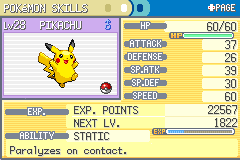
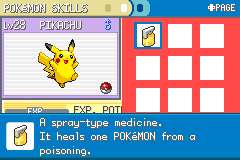
fix move description

diff --git a/src/pokemon_summary_screen.c b/src/pokemon_summary_screen.c
@@ -35,7 +35,7 @@
 #include "pokemon_storage_system.h"
 #include "constants/sound.h"
 
-#include "ui/summary_screen/summary_moveChanger.h"
+#include "ui/summary_screen/summary_MoveHandler.h"
 #include "ui/summary_screen/summary_screenData.h"
 #include "ui/summary_screen/summary_PageManager.h"
 #include "ui/summary_screen/summary_CursorObjs.h"
@@ -2384,6 +2384,7 @@ static void PokeSum_PrintRightPaneText(void)
         break;
     case PSS_PAGE_MOVES:
     case PSS_PAGE_MOVES_INFO:
+        // Page_DrawBoxes();
         Page_PrintMoveTexts(); // PrintMovesPage();
         break;
     }
@@ -2499,7 +2500,7 @@ static void PrintSkillsPage(void)
 // {
 //     Page_PrintMoveTexts(i);
     // u16 move = sMonSummaryScreen->moveIds[i];
-    // move = MoveChanger_GetMove(i);
+    // move = MoveHandler_GetMove(i);
 
     // // Title
     // AddTextPrinterParameterized3(sMonSummaryScreen->windowIds[POKESUM_WIN_RIGHT_PANE], FONT_NORMAL, 
@@ -2529,7 +2530,7 @@ static void PokeSum_PrintBottomPaneText(void)
         PokeSum_PrintExpPoints_NextLv();
         break;
     case PSS_PAGE_MOVES_INFO:
-        // PokeSum_PrintSelectedMoveStats();
+        Page_DrawBoxes();
         Page_PrintMoveDescription();
         break;
     case PSS_PAGE_MOVES:
@@ -2803,7 +2804,7 @@ static void PokeSum_PrintExpPoints_NextLv(void)
     //     if (sMonSummaryScreen->mode != PSS_MODE_SELECT_MOVE && sMoveSelectionCursorPos == 4)
     //         return;
 
-    //     moveData = MoveChanger_GetMoveDataAtCursor();
+    //     moveData = MoveHandler_GetMoveDataAtCursor();
     //     // Power
     //     AddTextPrinterParameterized3(sMonSummaryScreen->windowIds[POKESUM_WIN_MOVES_DESCRIPTION], FONT_NORMAL,
     //                                  55, 1,
@@ -2819,7 +2820,7 @@ static void PokeSum_PrintExpPoints_NextLv(void)
     //                                  7, 17,
     //                                  0, 0,
     //                                  sLevelNickTextColors[0], TEXT_SKIP_DRAW,
-    //                                  MoveChanger_GetDescription());
+    //                                  MoveHandler_GetDescription());
     //                                 //  moveData->GetDescription(moveData));
     // }
 // }
@@ -2868,7 +2869,7 @@ static void PokeSum_DrawMoveTypeIcons(void)
 
     // for (i = 0; i < 4; i++)
     // {
-    //     moveData = MoveChanger_GetMoveData(i);
+    //     moveData = MoveHandler_GetMoveData(i);
     //     if (moveData->id == MOVE_NONE)
     //         continue;
         
@@ -3178,7 +3179,7 @@ static void PokeSum_AddWindows(u8 curPageIndex)
         case PSS_PAGE_MOVES_INFO:
             sMonSummaryScreen->windowIds[i + 3] = AddWindow(&sWindowTemplates_Moves[i]);
             sPages[PSS_PAGE_MOVES_INFO]->windowIds[i] = sMonSummaryScreen->windowIds[i + 3];
-            DebugPrintf("screen add window %d", sMonSummaryScreen->windowIds[i + 3]);
+            // DebugPrintf("screen add window %d", sMonSummaryScreen->windowIds[i + 3]);
             // Page_SetWindow(i, sMonSummaryScreen->windowIds[i + 3]);
             // 3: POKESUM_WIN_MOVES_TITLE
             // 4: POKESUM_WIN_MOVES_DESCRIPTION
@@ -3527,19 +3528,6 @@ static void Task_HandleInput_SelectMove(u8 taskId)
 
                 sMonSummaryScreen->selectMoveInputHandlerState = SELECT_STATE_REDRAW;
 
-                // if (sMonSummaryScreen->isSwappingMoves == TRUE)
-                // {
-                //     if (sMoveSelectionCursorPos == 3)
-                //     {
-                //         sMoveSelectionCursorPos = 0;
-                //         Page_SetCursor(0);
-                //         sMonSummaryScreen->selectMoveInputHandlerState = SELECT_STATE_REDRAW;
-                //         PlaySE(SE_SELECT);
-                //         return;
-                //     }
-                //     iMax--;
-                // }
-
                 for (i = sMoveSelectionCursorPos; i < iMax; i++)
                 {
                     if (sMonSummaryScreen->moveIds[i + 1] != 0)
@@ -3590,7 +3578,7 @@ static void Task_HandleInput_SelectMove(u8 taskId)
             //     sMoveSelectionCursorPos = 0;
             //     Page_SetCursor(0);
             //     Page_SetScrolling(FALSE);
-            //     // MoveChanger_DeselectMove();
+            //     // MoveHandler_DeselectMove();
             //     sMoveSwapCursorPos = 0;
             //     sMonSummaryScreen->isSwappingMoves = FALSE;
             //     Page_SetSwapping(FALSE);
@@ -3611,7 +3599,6 @@ static void Task_HandleInput_SelectMove(u8 taskId)
                     sMoveSwapCursorPos = sMoveSelectionCursorPos;
                     sMonSummaryScreen->isSwappingMoves = TRUE;
                     Page_SetSwapping(TRUE);
-                    // MoveChanger_SelectMove();
                 }
                 return;
             }
@@ -3685,13 +3672,13 @@ static void Task_HandleInput_SelectMove(u8 taskId)
         CopyWindowToVram(sMonSummaryScreen->windowIds[POKESUM_WIN_MOVES_MINI], 2);
         CopyBgTilemapBufferToVram(0);
         CopyBgTilemapBufferToVram(3);
-        // CopyWindowToVram(2, COPYWIN_MAP); // boxes
-        Page_DrawBoxes();
+        CopyWindowToVram(2, COPYWIN_MAP); // boxes
+        // Page_DrawBoxes(); // already in PrintBottomPaneText
         sMonSummaryScreen->selectMoveInputHandlerState = SELECT_STATE_RENDER + 1;
         break;
 
     case SELECT_STATE_REDRAW + 2:
-        CopyWindowToVram(2, COPYWIN_MAP); // boxes
+        // CopyWindowToVram(2, COPYWIN_MAP); // boxes
         sMonSummaryScreen->selectMoveInputHandlerState = SELECT_STATE_INPUT;
         break;
 

diff --git a/src/ui/summary_screen/summary_Page_MoveInfos.c b/src/ui/summary_screen/summary_Page_MoveInfos.c
@@ -1,6 +1,6 @@
 #include "main.h"
 #include "ui/summary_screen/summary_Page.h"
-#include "ui/summary_screen/summary_MoveChanger.h"
+#include "ui/summary_screen/summary_MoveHandler.h"
 #include "ui/summary_screen/drawMoveBox.h"
 #include "constants/moves.h" // MOVE_NONE
 #include "list_menu.h" // BlitMenuInfoIcon
@@ -118,6 +118,7 @@ void Page_ScrollUp(u8 i)
 
 void Page_SetScrolling(bool8 b)
 {
+    DebugPrintf("set scrolling %d", b);
     isScrolling = b;
     sScrollIndex = 0;
     UpdateBoxes();
@@ -168,7 +169,7 @@ bool32 Page_SwapMoves(struct Pokemon * mon)
     // SetMonData(mon, MON_DATA_MOVE1 + 0, (u8 *)&move1);
     
     DebugPrintf("try swap moves -> %d %d", moveIndex, slotIndex);
-    b = MoveChanger_SwapMoves(mon, moveIndex, slotIndex);
+    b = MoveHandler_SwapMoves(mon, moveIndex, slotIndex);
     if (b)
     {
         sCursorIndex = MIN(index, sCursorIndex);
@@ -186,12 +187,12 @@ void Page_PrintMoveDescription()
     if (sCursorIndex >= 5)
         return;
 
-    moveData = MoveChanger_GetMoveData(sCursorIndex + sScrollIndex);
+    moveData = MoveHandler_GetMoveData(sCursorIndex + sScrollIndex);
 
     if (moveData == NULL || moveData->moveId == 0)
         return;
 
-    // DebugPrintf("print description %d", moveData->id);
+    // DebugPrintf("print description %d @ cursor: %d + %d", moveData->moveId, sCursorIndex, sScrollIndex);
 
     // Power
     AddTextPrinterParameterized3(WindowId, FONT_NORMAL, 55, 1,
@@ -204,7 +205,7 @@ void Page_PrintMoveDescription()
     // Description
     AddTextPrinterParameterized4(WindowId, FONT_SMALL, 7, 17, 0, 0,
                                     sLevelNickTextColors[0], TEXT_SKIP_DRAW,
-                                    gMoveDescriptionPointers[moveData->moveId]);
+                                    gMoveDescriptionPointers[moveData->moveId - 1]);
 }
 
 
@@ -225,24 +226,16 @@ SummaryPage *Page_MoveInfos_Init(void)
 
 void Page_SetPokemon(struct Pokemon * pokemon) 
 {
-    maxScroll = MoveChanger_SetPokemon(pokemon) - 4;
-    DebugPrintf("set pokemon -> moves %d", maxScroll);
+    maxScroll = MoveHandler_SetPokemon(pokemon) - 4;
+    // DebugPrintf("set pokemon -> moves %d", maxScroll);
 }
 
 void Page_DrawBoxes() {
-    u32 i;
+    // u32 i;
+    // DebugPrintf("draw boxes");
     for (i=0; i< 5; i++)
     {
         Page_DrawBox(i, 0);
-    }
-}
-
-void Page_DrawTweens(u8 direction)
-{
-    u32 i;
-    for (i=0; i< 5; i++)
-    {
-        Page_DrawBox(i, direction);
     }
 }
 
@@ -251,7 +244,7 @@ static bool8 Page_DrawBox(u32 i, u32 direction)
     if (boxes[i].dirty == TRUE)
     {
         DrawBox(i, boxes[i].state, direction);
-        DebugPrintf("print box -> state %d", boxes[i].state);
+        // DebugPrintf("print box -> state %d", boxes[i].state);
         boxes[i].dirty = FALSE;
         return TRUE;
     }
@@ -269,7 +262,7 @@ static void PrintMoveText(u8 i)
     if (i == 4 && isScrolling == FALSE)
         return;
 
-    moveData = MoveChanger_GetMoveData(i + sScrollIndex);
+    moveData = MoveHandler_GetMoveData(i + sScrollIndex);
 
     if (moveData == NULL || moveData->moveId == 0)
     {
@@ -335,7 +328,7 @@ void Page_DrawMoveIcons(void)
     for (i = 0; i < iMax; i++)
     {
         // DebugPrintf("draw move icons in window %d", windowId);
-        moveData = MoveChanger_GetMoveData(i + sScrollIndex);
+        moveData = MoveHandler_GetMoveData(i + sScrollIndex);
         if (moveData == NULL)
             continue;
         if (moveData->moveId == MOVE_NONE)

diff --git a/src/ui/summary_screen/summary_MoveHandler.c b/src/ui/summary_screen/summary_MoveHandler.c
@@ -1,5 +1,5 @@
 #include "main.h"
-#include "ui/summary_screen/summary_MoveChanger.h"
+#include "ui/summary_screen/summary_MoveHandler.h"
 #include "string_util.h"
 #include "strings.h"
 #include "characters.h"
@@ -184,7 +184,7 @@ static void PopulateLevelUpMoves(u16 species, u8 level)
 }
 
 /* Public API functions */
-u32 MoveChanger_SetPokemon(struct Pokemon *pokemon)
+u32 MoveHandler_SetPokemon(struct Pokemon *pokemon)
 {
     u16 species;
     u8 level;
@@ -208,7 +208,7 @@ u32 MoveChanger_SetPokemon(struct Pokemon *pokemon)
     return sNumLearnableMoves;
 }
 
-LearnableMoveData *MoveChanger_GetMoveData(u8 index)
+LearnableMoveData *MoveHandler_GetMoveData(u8 index)
 {
     if (index >= sNumLearnableMoves)
         return NULL;
@@ -216,7 +216,7 @@ LearnableMoveData *MoveChanger_GetMoveData(u8 index)
     return &sLearnableMoves[index];
 }
 
-u32 MoveChanger_SwapMoves(struct Pokemon * mon, u8 indexA, u8 indexB)
+u32 MoveHandler_SwapMoves(struct Pokemon * mon, u8 indexA, u8 indexB)
 {
     LearnableMoveData *moveToTeach;
     LearnableMoveData temp;
@@ -245,12 +245,12 @@ u32 MoveChanger_SwapMoves(struct Pokemon * mon, u8 indexA, u8 indexB)
     return TRUE;
 }
 
-u8 MoveChanger_GetNumMoves(void)
+u8 MoveHandler_GetNumMoves(void)
 {
     return sNumLearnableMoves;
 }
 
-// u32 MoveChanger_ForgetMove(u8 slotToForget)
+// u32 MoveHandler_ForgetMove(u8 slotToForget)
 // {
 //     u16 moveToForget;
 //     u16 noMove;
@@ -259,7 +259,7 @@ u8 MoveChanger_GetNumMoves(void)
 //     if (slotToForget >= MAX_MON_MOVES)
 //         return FALSE;
     
-//     moveToForget = MoveChanger_GetSlot(slotToForget);
+//     moveToForget = MoveHandler_GetSlot(slotToForget);
 //     if (moveToForget == MOVE_NONE)
 //         return FALSE;
     

diff --git a/src/battle_message.c b/src/battle_message.c
@@ -2526,6 +2526,30 @@ static const struct BattleWindowText sTextOnWindowsInfo_Normal[] = {
         .bgColor = 14,
         .shadowColor = 11,
     },
+    [B_WIN_HEALTHBOX_PLAYER1] = {
+        .fillValue = PIXEL_FILL(0xe),
+        .fontId = FONT_NORMAL_COPY_1,
+        .x = 10,
+        .y = 2,
+        .letterSpacing = 0,
+        .lineSpacing = 2,
+        .speed = 0,
+        .fgColor = 12,
+        .bgColor = 14,
+        .shadowColor = 11,
+    },
+    [B_WIN_HEALTHBOX_OPPONENT1] = {
+        .fillValue = PIXEL_FILL(0xe),
+        .fontId = FONT_NORMAL_COPY_1,
+        .x = 10,
+        .y = 2,
+        .letterSpacing = 0,
+        .lineSpacing = 2,
+        .speed = 0,
+        .fgColor = 12,
+        .bgColor = 14,
+        .shadowColor = 11,
+    },
     [B_WIN_MOVE_CATEGORY] = {
         .fillValue = PIXEL_FILL(0xe),
         .fontId = FONT_NORMAL_COPY_1,

diff --git a/include/constants/battle.h b/include/constants/battle.h
@@ -335,8 +335,8 @@
 #define B_WIN_MOVE_PWR                  7
 #define B_WIN_MOVE_POWER           8
 #define B_WIN_ICONS_PLAYER1        25
-#define B_WIN_ICONS_ZONE        26
 #define B_WIN_ICONS_OPPONENT1        17 // 9
+#define B_WIN_ICONS_ZONE        26
 #define B_WIN_MOVE_CATEGORY      10
 #define B_WIN_SWITCH_PROMPT      11 // "Switch which?"
 #define B_WIN_LEVEL_UP_BOX       12
@@ -352,7 +352,9 @@
 #define B_WIN_VS_OUTCOME_LEFT    22
 #define B_WIN_VS_OUTCOME_RIGHT   23
 #define B_WIN_OAK_OLD_MAN        24
-#define B_WIN_DUMMY              27 // NEEDS TO BE LAST   
+#define B_WIN_HEALTHBOX_PLAYER1  27
+#define B_WIN_HEALTHBOX_OPPONENT1 28
+#define B_WIN_DUMMY              29 // NEEDS TO BE LAST   
 
 #define B_TEXT_FLAG_NPC_CONTEXT_FONT    (1 << 6)
 #define B_TEXT_FLAG_WINDOW_CLEAR        (1 << 7)

diff --git a/include/battle_controller/battle_bg_templates.c b/include/battle_controller/battle_bg_templates.c
@@ -144,6 +144,24 @@ static const struct WindowTemplate sStandardBattleWindowTemplates[] = {
         .paletteNum = 10,
         .baseBlock = 292 // 266
     },
+    [B_WIN_HEALTHBOX_OPPONENT1] = { // player
+        .bg = 0,
+        .tilemapLeft = 2,
+        .tilemapTop = 2,
+        .width = 11, // 12
+        .height = 3, // 2
+        .paletteNum = 10,
+        .baseBlock = 512 // 266
+    },
+    [B_WIN_HEALTHBOX_PLAYER1] = { // player
+        .bg = 0,
+        .tilemapLeft = 17,
+        .tilemapTop = 12,
+        .width = 11, // 12
+        .height = 3, // 2
+        .paletteNum = 10,
+        .baseBlock = 512 + 33 // 266
+    },
     [B_WIN_ICONS_ZONE] = { // Zone
         .bg = 0,
         .tilemapLeft = 17,

diff --git a/include/ui/summary_screen/summary_MoveHandler.h b/include/ui/summary_screen/summary_MoveHandler.h
@@ -1,0 +1,23 @@
+#ifndef GUARD_SUMMARY_MOVE_CHANGER_H
+#define GUARD_SUMMARY_MOVE_CHANGER_H
+
+#include "pokemon.h"
+
+/* Updated structure for better move management */
+typedef struct {
+    u16 moveId;
+    u8 learnLevel;
+    u8 learnMethod; /* 0=level up, 1=TM/HM, 2=tutor, 3=egg, etc. */
+    u8 type;
+    u8 category;
+    u8 powerStr[4];
+    u8 accuracyStr[5];
+} LearnableMoveData;
+
+/* Function prototypes */
+u32 MoveHandler_SetPokemon(struct Pokemon *pokemon);
+LearnableMoveData *MoveHandler_GetMoveData(u8 index);
+u8 MoveHandler_GetNumMoves(void);
+u32 MoveHandler_SwapMoves(struct Pokemon * pokemon, u8 newMoveIndex, u8 slotToReplace);
+
+#endif
